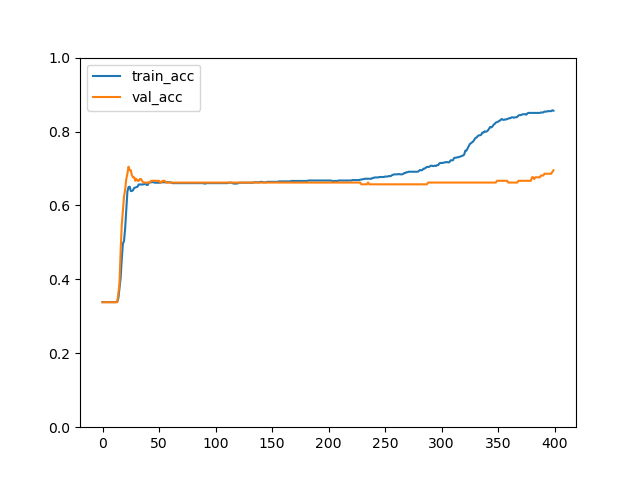
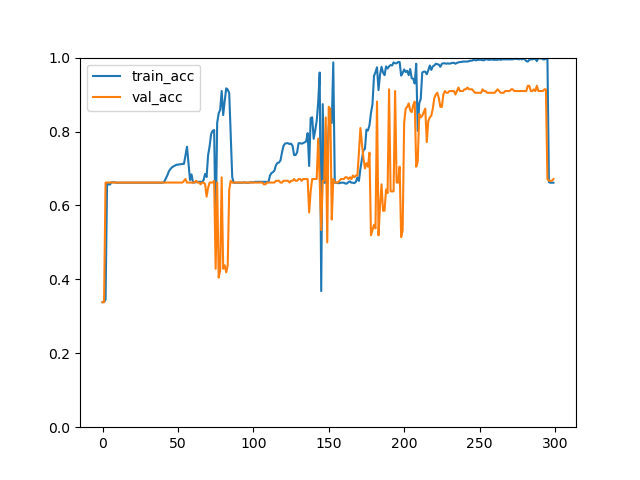
overfitting so badly still lstm(32,2) dropout .3 in lstm layer dropout .3 out of lstm layer 2 dropout before and after .00005 lr

diff --git a/LSTM.py b/LSTM.py
@@ -75,8 +75,8 @@ class LSTM(nn.Module):
         self.embedding = nn.Embedding(LEN_VOCAB, 300)
         self.linear = nn.Linear(hide_dim, 1)
         self.sigmoid = nn.Sigmoid()
-        self.dropout = nn.Dropout(0.1)
-        self.dropout2 = nn.Dropout(0.1)
+        self.dropout = nn.Dropout(0.3)
+        self.dropout2 = nn.Dropout(0.3)
 
     def forward(self, x):
         x, _ = self.lstm(x)
@@ -231,12 +231,13 @@ def trainLoop(model, epochs, training_data, testing_data, optimizer, criterion, 
             print(
                 f'             Epoch {e} Validation - Loss: {test_loss:.4f}, Accuracy: {accuracy:.4f}, Precision: {precisionV:.4f}, Recall: {recallV:.4f}, F1 Score: {f1V:.4f}')
 
-        e_precisionListTrain.append(precision)
-        e_precisionListVal.append(precisionV)
-        e_recallListTrain.append(recall)
-        e_recallListVal.append(recallV)
-        e_F1ListTrain.append(f1)
-        e_F1ListVal.append(f1V)
+        if (e > (epochs-10)):
+            e_precisionListTrain.append(precision)
+            e_precisionListVal.append(precisionV)
+            e_recallListTrain.append(recall)
+            e_recallListVal.append(recallV)
+            e_F1ListTrain.append(f1)
+            e_F1ListVal.append(f1V)
 
     test_loss /= len(testing_data.dataset)
     accuracy = correct / len(testing_data.dataset)
@@ -299,11 +300,11 @@ def formatAndFold():
     labels_train = dataset['Class'].values
 
     # critical hyperparameters
-    epoch = 300
-    ksplits = 5
+    epoch = 150
+    ksplits = 2
     #learning_rate = 0.000001
     #learning_rate = 0.0001
-    learning_rate = .00001
+    learning_rate = .00005
     allAveLoss = []
     allAveAcc = []
 
@@ -315,8 +316,9 @@ def formatAndFold():
     for train_index, test_index in kfold.split(smiles_train, labels_train):
         #changed from 64
         model = LSTM(32, 2)
+        #change to Adam
         optimizer = optim.Adam(model.parameters(), lr=learning_rate)
-        scheduler = lr_scheduler.LinearLR(optimizer, start_factor=1.0, end_factor=0.6, total_iters=300)
+        scheduler = lr_scheduler.LinearLR(optimizer, start_factor=1.0, end_factor=0.8, total_iters=300)
         loss_fn = torch.nn.BCELoss()
 
         fold = fold + 1
